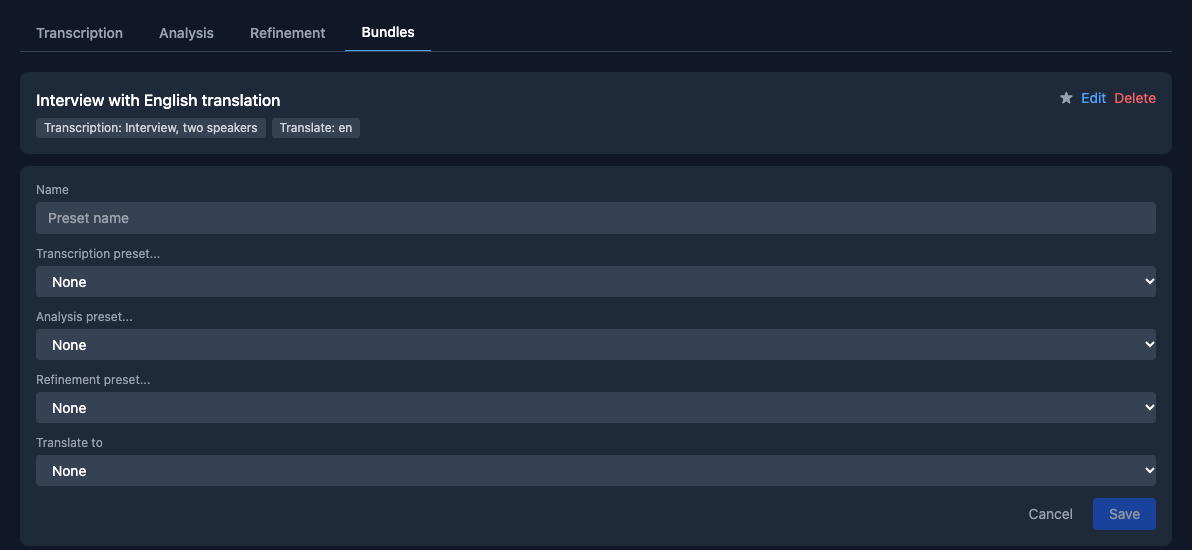
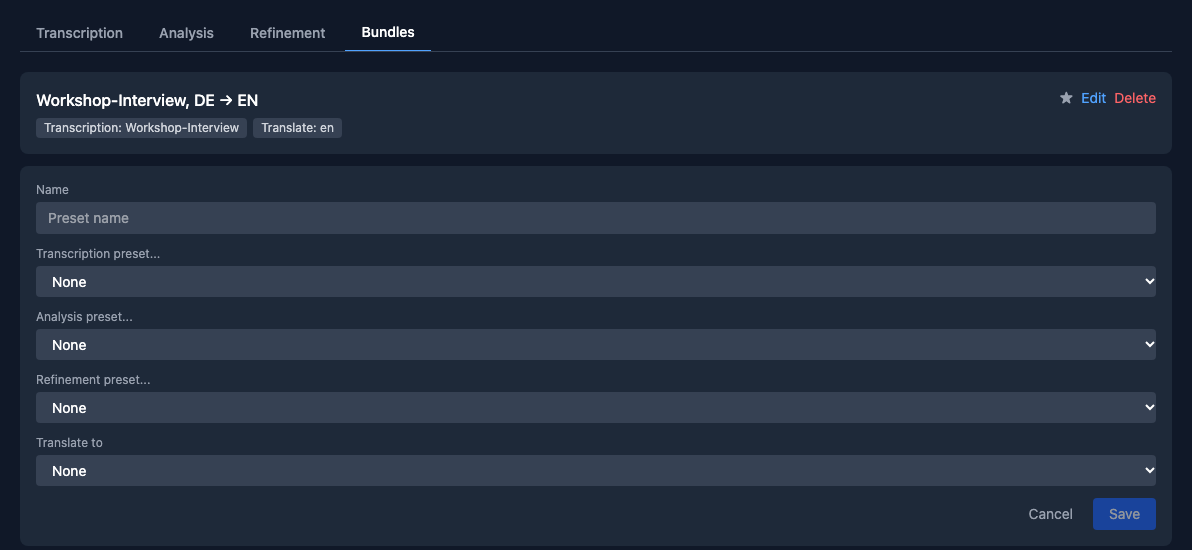
fix(help): align demo data with production retention and model
The English demo item now expires 72 hours after creation, as the guide says, and the seeded transcriptions and preset use the configured large-v3-turbo model. The preset, bundle and token names read naturally in both languages. All screenshots are re-shot.

Changed region(s): [[0.031, 0.1545, 0.3104, 0.2473]]

diff --git a/backend/scripts/seed_help_demo.py b/backend/scripts/seed_help_demo.py
@@ -35,8 +35,9 @@ _CREATED = {"de": "2026-10-01 07:00:00", "en": "2026-10-01 06:00:00"}
 _COMPLETED = {"de": "2026-10-01 07:02:00", "en": "2026-10-01 06:02:00"}
 _ANALYSIS_CREATED = "2026-10-01 07:10:00"
 _REFINEMENT_CREATED = "2026-10-01T07:05:00+00:00"
-# German item is archived (archive retention); English keeps a plain expiry.
-_EXPIRES = {"de": "2027-03-30 07:00:00", "en": "2026-12-31 07:00:00"}
+# Production retention: a plain item expires 72 h after creation; the archived German item
+# has the archive retention of 4320 h (180 days), counted here from creation.
+_EXPIRES = {"de": "2027-03-30 07:00:00", "en": "2026-10-04 06:00:00"}
 ARCHIVED = {"de": 1, "en": 0}
 TONE_HZ = {"de": 440, "en": 523}
 DURATION_S = 120
@@ -157,7 +158,7 @@ async def seed(
                        created_at, completed_at, refined_utterances_json,
                        refinement_metadata_json, translated_utterances_json,
                        translation_language, translation_source, translation_source_hash, title)
-                   VALUES (?, ?, ?, ?, 'demo', 'completed', ?, 'large-v3', 2, 2, ?, ?, ?,
+                   VALUES (?, ?, ?, ?, 'demo', 'completed', ?, 'large-v3-turbo', 2, 2, ?, ?, ?,
                            ?, ?, ?, ?, 'refined', ?, ?)""",
                 (txn_id, USER_ID, file_id, f"demo-{code}", code,
                  json.dumps(original, ensure_ascii=False), CREATED[code], COMPLETED[code],
@@ -192,20 +193,20 @@ async def seed(
         await db.execute(
             """INSERT INTO transcription_presets (id, user_id, name, language, model,
                    min_speakers, max_speakers, initial_prompt, hotwords, created_at, updated_at)
-               VALUES (?, ?, 'Interview, two speakers', 'de', 'large-v3', 2, 2,
+               VALUES (?, ?, 'Workshop-Interview', 'de', 'large-v3-turbo', 2, 2,
                        'Interview about planning a university workshop.', 'Workshop, Semester', ?, ?)""",
             (preset_id, USER_ID, CREATED["de"], CREATED["de"]),
         )
         await db.execute(
             """INSERT INTO preset_bundles (id, user_id, name, transcription_preset_id,
                    translate_language, created_at, updated_at)
-               VALUES (?, ?, 'Interview with English translation', ?, 'en', ?, ?)""",
+               VALUES (?, ?, 'Workshop-Interview, DE → EN', ?, 'en', ?, ?)""",
             (bundle_id, USER_ID, preset_id, CREATED["de"], CREATED["de"]),
         )
         await db.commit()
 
         # Raw token is intentionally discarded: it is never printed or stored.
-        await create_token(db, user_id=USER_ID, name="Example script", expires_in_days=90)
+        await create_token(db, user_id=USER_ID, name="Demo-Skript", expires_in_days=90)
     return ids
 
 

diff --git a/backend/tests/test_seed_help_demo.py b/backend/tests/test_seed_help_demo.py
@@ -1,5 +1,5 @@
 import json
-from datetime import date, timedelta
+from datetime import date, datetime, timedelta
 import os
 import shutil
 
@@ -69,6 +69,23 @@ async def test_seed_creates_names_analysis_presets_token(seeded):
     assert len(await _rows(db_path, "SELECT * FROM transcription_presets")) == 1
     assert len(await _rows(db_path, "SELECT * FROM preset_bundles")) == 1
     assert len(await _rows(db_path, "SELECT * FROM api_tokens WHERE user_id = 'dev-user'")) == 1
+
+
+@pytest.mark.asyncio
+async def test_seed_matches_production_retention_and_model(tmp_path):
+    db_path = str(tmp_path / "r.db")
+    await seed(db_path, str(tmp_path / "m"), make_media=False)
+    files = {
+        r["original_filename"]: r
+        for r in await _rows(db_path, "SELECT original_filename, created_at, expires_at, is_archived FROM files")
+    }
+    fmt = "%Y-%m-%d %H:%M:%S"
+    en, de = files["workshop-planning.mp3"], files["workshop-planung.mp3"]
+    assert datetime.strptime(en["expires_at"], fmt) - datetime.strptime(en["created_at"], fmt) == timedelta(hours=72)
+    assert datetime.strptime(de["expires_at"], fmt) - datetime.strptime(de["created_at"], fmt) == timedelta(hours=4320)
+    models = {r["model"] for r in await _rows(db_path, "SELECT model FROM transcriptions")}
+    models |= {r["model"] for r in await _rows(db_path, "SELECT model FROM transcription_presets")}
+    assert models == {"large-v3-turbo"}
 
 
 @pytest.mark.asyncio
